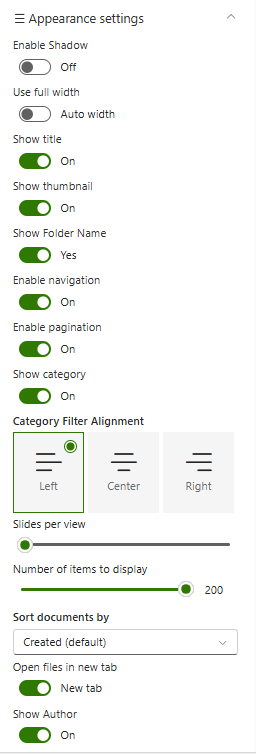
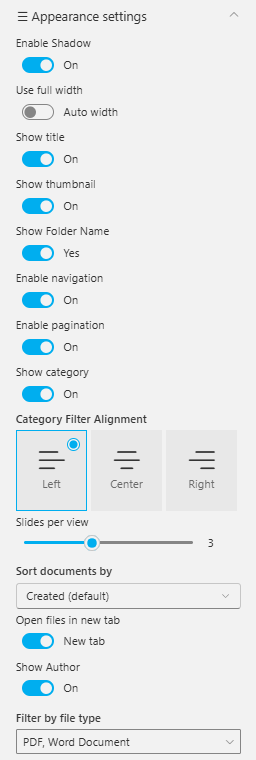
Update Document Library “document-library-02”

diff --git a/spd-documentation/docs/webparts/documentlibrary/document-library-02.md b/spd-documentation/docs/webparts/documentlibrary/document-library-02.md
@@ -22,7 +22,7 @@ The Mandatory Trainings Web Part presents essential employee training programs t
 | Name                       | Purpose                                                             | Example / Options                         |
 | -------------------------- | ------------------------------------------------------------------- | ----------------------------------------- |
 | Show WebPart Title?        | Toggle to show or hide the WebPart title in the layout.             | Yes / No                                  |
-| Title                      | Allows entering a custom title for the WebPart.                     |  “Mandatory Trainings”                    |
+| Title                      | Allows entering a custom title for the WebPart.                     | “Mandatory Trainings”                     |
 | Choose title heading level | Selects the heading hierarchy (H1–H6) to control title styling.     | Custom, H1–H6                             |
 | Custom Font Size (px)      | Adjusts the font size of the WebPart title using a slider.          | 36px (adjustable)                         |
 | WebPart Title Text Color   | Defines the title color using a color picker (supports RGBA & Hex). | \#fa1b1b, RGB(250,27,27), Alpha 100       |
@@ -40,19 +40,19 @@ The Mandatory Trainings Web Part presents essential employee training programs t
 
 </details>
 
-| Name                      | Purpose                                                 | Example / Options               |
-| ------------------------- | ------------------------------------------------------- | ------------------------------- |
-| Source                    | Source of the Document library.    | A document library on this site |
-| Select a Library          | Choose a specific document library from the site.       | DocumentContents              |
-| Search sites              | Search the SharePoint sites available in the tenant          | SharePoint Sites available in the tenant.     |
-| Website(s) selected             | Select the SharePoint sites source for the Document Library. | Search results based upon the key search                        |
-| Number of items to display | Enter the number of items to display.     | Number between 01 and 4999    |
-| Category Name             | Select the metadata column used for category filtering. | Category                        |
-| Filter the Category Value | Choose one or more category values to filter items.     | Choice 1, Choice 2, Choice 3    |
+| Name                       | Purpose                                                      | Example / Options                         |
+| -------------------------- | ------------------------------------------------------------ | ----------------------------------------- |
+| Source                     | Source of the Document library.                              | A document library on this site           |
+| Select a Library           | Choose a specific document library from the site.            | DocumentContents                          |
+| Search sites               | Search the SharePoint sites available in the tenant          | SharePoint Sites available in the tenant. |
+| Website(s) selected        | Select the SharePoint sites source for the Document Library. | Search results based upon the key search  |
+| Number of items to display | Enter the number of items to display.                        | Number between 01 and 4999                |
+| Category Name              | Select the metadata column used for category filtering.      | Category                                  |
+| Filter the Category Value  | Choose one or more category values to filter items.          | Choice 1, Choice 2, Choice 3              |
 
 - - -
 
-## Appearance Settings
+### Appearance settings
 
 <details>
 <summary>📸 View Appearance Settings Screenshot</summary>
@@ -61,24 +61,20 @@ The Mandatory Trainings Web Part presents essential employee training programs t
 
 </details>
 
-| Name                       | Purpose                                                             | Example / Options                 |
-| -------------------------- | ------------------------------------------------------------------- | --------------------------------- |
-| Use full width             | Expands the web part to use the full available page width.          | On / Off                          |
-| Auto width                 | Automatically adjusts width based on available space.               | Enabled / Disabled                |
-| Hide Category Filter       | Toggles visibility of the category filter bar.                      | Yes / No                          |
-| Show Title                 | Displays or hides the item title on each card.                      | On / Off                          |
-| Show Thumbnail             | Shows or hides the thumbnail image inside each card.                | On / Off                          |
-| Show Folder Name           | Enables display of folder names when applicable.                    | Yes / No                          |
-| Enable Navigation          | Shows carousel navigation arrows for scrolling through items.       | On / Off                          |
-| Enable Pagination          | Displays the pagination dots below the slider.                      | On / Off                          |
-| Show Category              | Enables category labels on each item card.                          | Yes / No                          |
-| Category Filter Alignment  | Sets alignment of category filter buttons.                          | Left / Center / Right             |
-| Slides per view            | Number of items shown at once in the carousel.                      | 1–4+                              |
-| Number of items to display | Limits the total number of items loaded in the web part.            | e.g., 20                          |
-| Enable Borders             | Adds or removes borders around cards.                               | On / Off                          |
-| Enable Shadow              | Adds shadow styling to cards for visual depth.                      | On / Off                          |
-| Background Color           | Sets background color for item cards or web part area (Hex / RGBA). | \#ffffff / RGB(255,255,255)       |
-| Sort documents by          | Specifies the sort order for files or items.                        | Created (default), Modified, Name |
-| Enable Category Filter     | Enables category-based filtering of displayed items.                | On / Off                          |
-| Category Filter Alignment  | Aligns the category filter buttons.                                 | Left / Center / Right             |
-| Open files in new tab      | Opens document links in a new browser tab.                          | On / Off                          |
+| Name                      | Purpose                                                 | Example / Options                  |
+| ------------------------- | ------------------------------------------------------- | ---------------------------------- |
+| Enable Shadow             | Toggle to enable or disable shadow around the web part. | On / Off                           |
+| Use full width            | Enable full-width layout for the web part.              | On / Off                           |
+| Auto width                | Automatically adjust width based on content.            | On / Off                           |
+| Show title                | Show or hide item titles.                               | On / Off                           |
+| Show thumbnail            | Display thumbnails for items.                           | On / Off                           |
+| Show Folder Name          | Show the folder name for listed documents.              | Yes / No                           |
+| Enable navigation         | Enable navigation controls for sliders or carousels.    | On / Off                           |
+| Enable pagination         | Display pagination indicators.                          | On / Off                           |
+| Show category             | Show category labels for items.                         | On / Off                           |
+| Category Filter Alignment | Align the category filter UI.                           | Left / Center / Right              |
+| Slides per view           | Number of slides visible at once.                       | Slider (e.g., 3)                   |
+| Sort documents by         | Sort displayed items using selected property.           | Created (default), Modified, Name… |
+| Open files in new tab     | Open item links in a new browser tab.                   | New tab / Same tab                 |
+| Show Author               | Display document author information.                    | On / Off                           |
+| Filter by file type       | Filter documents by selected file types.                | PDF, Word Document…                |
